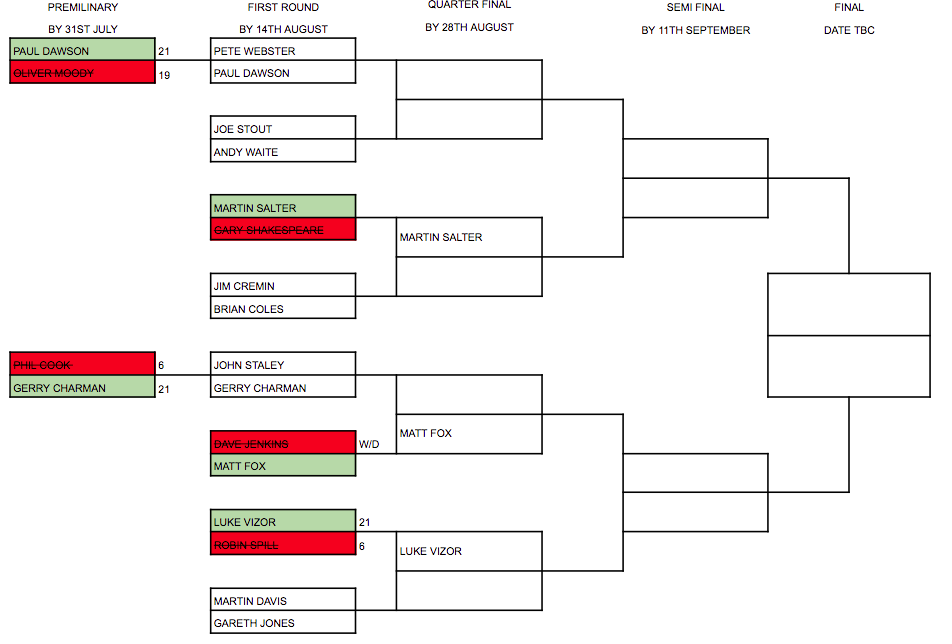
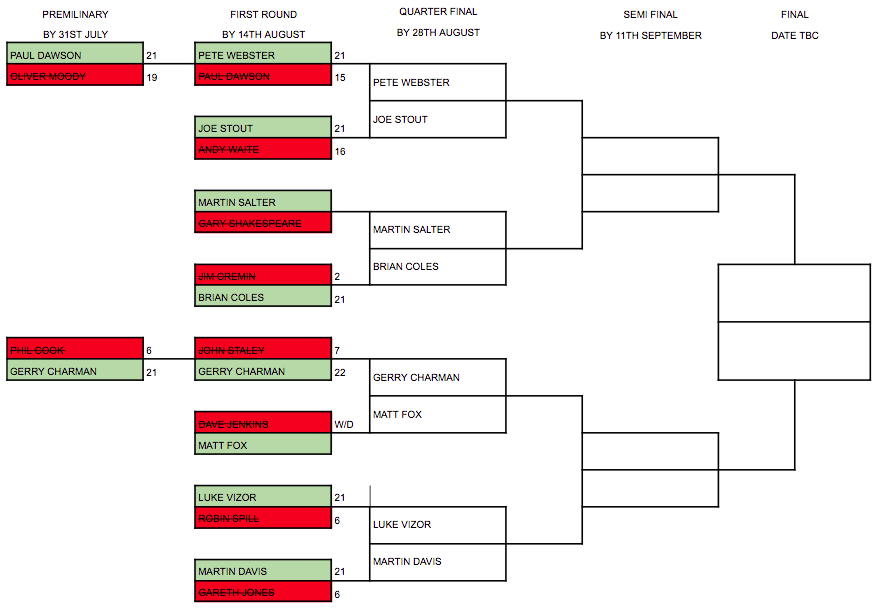
Tables updated, revised draw image added

diff --git a/pairs-leagues.html b/pairs-leagues.html
@@ -232,24 +232,35 @@
 								</tr>
 								<tr>
 									<td>J.Stout</td>
-									<td>3</td>
-									<td class="d-none d-md-table-cell">2</td>
+									<td>4</td>
+									<td class="d-none d-md-table-cell">3</td>
                                     <td class="d-none d-md-table-cell">0</td>
                                     <td class="d-none d-md-table-cell">1</td>
-                                    <td class="d-none d-md-table-cell">55</td>
-                                    <td class="d-none d-md-table-cell">43</td>
-                                    <td>+12</td>
-                                    <td>6</td>
+                                    <td class="d-none d-md-table-cell">76</td>
+                                    <td class="d-none d-md-table-cell">57</td>
+                                    <td>+19</td>
+                                    <td>9</td>
 								</tr>
 								<tr>
 									<td>T.Rogers</td>
-									<td>3</td>
+									<td>4</td>
 									<td class="d-none d-md-table-cell">2</td>
                                     <td class="d-none d-md-table-cell">0</td>
-                                    <td class="d-none d-md-table-cell">1</td>
-                                    <td class="d-none d-md-table-cell">50</td>
-                                    <td class="d-none d-md-table-cell">47</td>
-                                    <td>+3</td>
+                                    <td class="d-none d-md-table-cell">2</td>
+                                    <td class="d-none d-md-table-cell">68</td>
+                                    <td class="d-none d-md-table-cell">69</td>
+                                    <td>-1</td>
+                                    <td>6</td>
+								</tr>
+                                <tr>
+									<td>A.Waite</td>
+									<td>4</td>
+									<td class="d-none d-md-table-cell">2</td>
+                                    <td class="d-none d-md-table-cell">0</td>
+                                    <td class="d-none d-md-table-cell">2</td>
+                                    <td class="d-none d-md-table-cell">74</td>
+                                    <td class="d-none d-md-table-cell">89</td>
+                                    <td>-15</td>
                                     <td>6</td>
 								</tr>
                                 <tr>
@@ -257,33 +268,22 @@
 									<td>3</td>
 									<td class="d-none d-md-table-cell">1</td>
                                     <td class="d-none d-md-table-cell">0</td>
-                                    <td class="d-none d-md-table-cell">2</td>
-                                    <td class="d-none d-md-table-cell">43</td>
-                                    <td class="d-none d-md-table-cell">41</td>
-                                    <td>+2</td>
-                                    <td>3</td>
-								</tr>
-                                <tr>
-									<td>A.Waite</td>
-									<td>3</td>
-									<td class="d-none d-md-table-cell">1</td>
-                                    <td class="d-none d-md-table-cell">0</td>
-                                    <td class="d-none d-md-table-cell">2</td>
-                                    <td class="d-none d-md-table-cell">37</td>
-                                    <td class="d-none d-md-table-cell">57</td>
-                                    <td>-20</td>
+                                    <td class="d-none d-md-table-cell">3</td>
+                                    <td class="d-none d-md-table-cell">54</td>
+                                    <td class="d-none d-md-table-cell">64</td>
+                                    <td>-10</td>
                                     <td>3</td>
 								</tr>
                                 <tr>
 									<td>J.Shakespeare</td>
-									<td>3</td>
-									<td class="d-none d-md-table-cell">0</td>
+									<td>4</td>
+									<td class="d-none d-md-table-cell">1</td>
                                     <td class="d-none d-md-table-cell">0</td>
                                     <td class="d-none d-md-table-cell">3</td>
-                                    <td class="d-none d-md-table-cell">36</td>
-                                    <td class="d-none d-md-table-cell">67</td>
-                                    <td>-31</td>
-                                    <td>0</td>
+                                    <td class="d-none d-md-table-cell">58</td>
+                                    <td class="d-none d-md-table-cell">85</td>
+                                    <td>-27</td>
+                                    <td>3</td>
 								</tr>
 							</tbody>
 						</table>
@@ -308,6 +308,17 @@
 							</thead>
 							<tbody>
 								<tr>
+									<td>L.Vizor</td>
+									<td>4</td>
+									<td class="d-none d-md-table-cell">3</td>
+                                    <td class="d-none d-md-table-cell">0</td>
+                                    <td class="d-none d-md-table-cell">1</td>
+                                    <td class="d-none d-md-table-cell">73</td>
+                                    <td class="d-none d-md-table-cell">57</td>
+                                    <td>+16</td>
+                                    <td>9</td>
+								</tr>
+                                <tr>
 									<td>F.Waite</td>
 									<td>4</td>
 									<td class="d-none d-md-table-cell">2</td>
@@ -318,60 +329,49 @@
                                     <td>+9</td>
                                     <td>6</td>
 								</tr>
-                                <tr>
+								<tr>
 									<td>P.Dawson</td>
-									<td>3</td>
-									<td class="d-none d-md-table-cell">2</td>
-                                    <td class="d-none d-md-table-cell">0</td>
-                                    <td class="d-none d-md-table-cell">1</td>
-                                    <td class="d-none d-md-table-cell">55</td>
-                                    <td class="d-none d-md-table-cell">51</td>
-                                    <td>+4</td>
-                                    <td>6</td>
-								</tr>
-								<tr>
-									<td>L.Vizor</td>
-									<td>3</td>
-									<td class="d-none d-md-table-cell">2</td>
-                                    <td class="d-none d-md-table-cell">0</td>
-                                    <td class="d-none d-md-table-cell">1</td>
-                                    <td class="d-none d-md-table-cell">49</td>
-                                    <td class="d-none d-md-table-cell">48</td>
-                                    <td>+1</td>
-                                    <td>6</td>
-								</tr>
-								<tr>
-									<td>G.Charman</td>
 									<td>4</td>
 									<td class="d-none d-md-table-cell">2</td>
                                     <td class="d-none d-md-table-cell">0</td>
                                     <td class="d-none d-md-table-cell">2</td>
-                                    <td class="d-none d-md-table-cell">58</td>
-                                    <td class="d-none d-md-table-cell">64</td>
-                                    <td>-6</td>
+                                    <td class="d-none d-md-table-cell">71</td>
+                                    <td class="d-none d-md-table-cell">68</td>
+                                    <td>+3</td>
+                                    <td>6</td>
+								</tr>
+								<tr>
+									<td>R.Spill</td>
+									<td>4</td>
+									<td class="d-none d-md-table-cell">2</td>
+                                    <td class="d-none d-md-table-cell">0</td>
+                                    <td class="d-none d-md-table-cell">2</td>
+                                    <td class="d-none d-md-table-cell">63</td>
+                                    <td class="d-none d-md-table-cell">65</td>
+                                    <td>-2</td>
                                     <td>6</td>
 								</tr>
                                 <tr>
-									<td>R.Spill</td>
-									<td>3</td>
-									<td class="d-none d-md-table-cell">1</td>
+									<td>G.Charman</td>
+									<td>5</td>
+									<td class="d-none d-md-table-cell">2</td>
                                     <td class="d-none d-md-table-cell">0</td>
-                                    <td class="d-none d-md-table-cell">2</td>
-                                    <td class="d-none d-md-table-cell">46</td>
-                                    <td class="d-none d-md-table-cell">49</td>
-                                    <td>-3</td>
-                                    <td>3</td>
+                                    <td class="d-none d-md-table-cell">3</td>
+                                    <td class="d-none d-md-table-cell">74</td>
+                                    <td class="d-none d-md-table-cell">81</td>
+                                    <td>-7</td>
+                                    <td>6</td>
 								</tr>
                                 <tr>
 									<td>G.Shakespeare</td>
-									<td>3</td>
-									<td class="d-none d-md-table-cell">1</td>
+									<td>5</td>
+									<td class="d-none d-md-table-cell">2</td>
                                     <td class="d-none d-md-table-cell">0</td>
-                                    <td class="d-none d-md-table-cell">2</td>
-                                    <td class="d-none d-md-table-cell">46</td>
-                                    <td class="d-none d-md-table-cell">51</td>
-                                    <td>-5</td>
-                                    <td>3</td>
+                                    <td class="d-none d-md-table-cell">3</td>
+                                    <td class="d-none d-md-table-cell">72</td>
+                                    <td class="d-none d-md-table-cell">91</td>
+                                    <td>-19</td>
+                                    <td>6</td>
 								</tr>
 							</tbody>
 						</table>
@@ -380,7 +380,7 @@
                 </div>
                 <div class="tables-updated">
                     <p> 
-                    Tables updated Sunday 2nd August 17.15
+                    Tables updated Thursday 13th August 09.13
                     </p>
                 </div>    
 			</div>  
